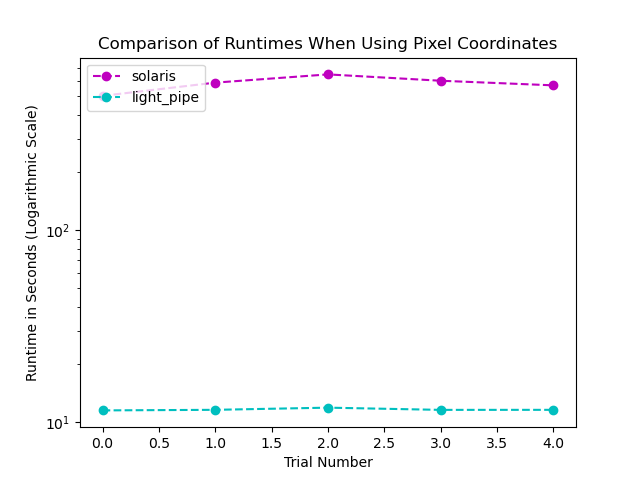
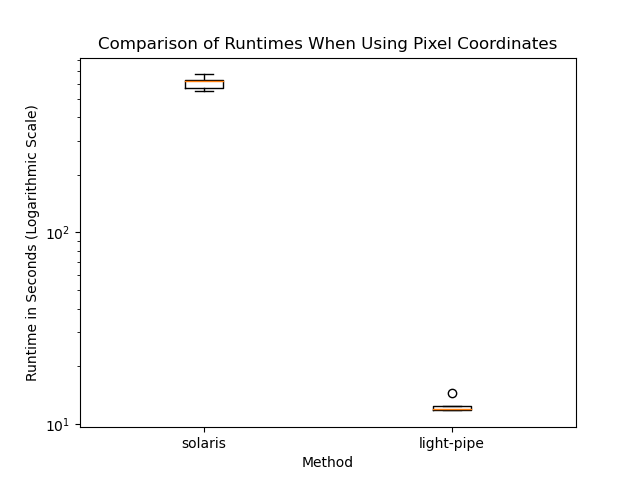
Rerun tests and update docs

diff --git a/docs/index.html b/docs/index.html
@@ -32,7 +32,7 @@
 <p>Raster files retrieved from data providers, such as satellite images, are generally too large to be input directly into deep-learning-based computer vision models. The <a href="https://arxiv.org/pdf/1512.03385.pdf">ResNet-50 model</a>, for example, requires inputs of size 224 by 224 (measured in pixels) whereas a typical <a href="https://www.usgs.gov/faqs/what-are-band-designations-landsat-satellites">Landsat 8-9 Operational Land Imagery (OLI) panchromatic image</a> is approximately 12200 by 11300 pixels. Therefore, to use a ResNet-50 model with a Landsat image, it is necessary to first pre-process the image. The most straightforward way to do this is to partition the image into image tiles (also known as "chips").</p>
 <p>This pre-processing step must be performed <em>every time</em> a satellite image is fed into a model, both while training the model and after it is deployed into production. So when you want to deploy a model to analyze a large number of satellite images, it is vital that your systems can tile images as quickly and efficiently as possible. This is especially true when the goal is to analyze sequences of imagery for each location.</p>
 <p>Here, we're concerned with two measures of efficiency: (a) the length of time it takes to process the data, and (b) the amount of storage space necessary to do so. Although Light-Pipe allows the user to save tiles (i.e. write to disk), this is generally undesirable when working with large quantities of data, since doing so may more than double the disk space required to conduct an analysis. For this reason, Light-Pipe can operate in-memory, which means that no extra storage space is required to process data, and you needn't write anything to disk when using it (unless you want to). Such transformations can be performed "on-the-fly", meaning that Light-Pipe transforms input data as it is needed, with no pre-processing step required. As we'll see below, Light-Pipe is so fast that users may prefer to prepare their data on-the-fly rather than in a batch pre-processing step, even during model training.</p>
-<p>To test Light-Pipe's performance on this task, let's compare it with existing tools. Although there are other tools for the task of raster tiling, two of the best and most popular are <a href="https://github.com/cogeotiff/rio-tiler"><code>rio-tiler</code></a> and <a href="https://github.com/CosmiQ/solaris"><code>solaris</code></a>. Both have (reasonably) large userbases and feature contributions from skilled developers. As mentioned previously, there are other tools that perform similar functions (such as <a href="https://github.com/azavea/raster-vision"><code>rastervision</code></a>), but they generally use a similar implementation to either <code>rio-tiler</code> or <code>solaris</code>. <code>rastervision</code>, for example, produces image tiles by essentially the same process as <code>solaris</code>.</p>
+<p>To test Light-Pipe's performance on this task, let's compare it with existing tools. Although there are other tools for the task of raster tiling, two of the best and most popular are <a href="https://github.com/cogeotiff/rio-tiler"><code>rio-tiler</code></a> and <a href="https://github.com/CosmiQ/solaris"><code>solaris</code></a>. Both have (reasonably) large userbases and feature contributions from skilled developers. As mentioned previously, there are other tools that perform similar functions, but they generally use a similar implementation to one of the two methods tested.</p>
 <p>For this test, we'll use the GeoTiff image found <a href="https://s3.amazonaws.com/spacenet-dataset/AOIs/AOI_1_Rio/PS-RGB/PS-RGB_mosaic_013022223133.tif">here</a> (CAUTION, clicking this link will automatically download the file). In the test scripts linked below, this is the file stored at <code>'./data/big_image.tif'</code>. </p>
 <p>We'll test two methods of tile generation. The first method simply involves reading sub-arrays from the input image of a specified width and height (in pixels). The second method requires extracting regions from the input image specified in geographic coordinates (e.g. degrees of latitude/longitude), not in pixel coordinates as in the first method. This method is more difficult, as the input image may not use the same coordinate reference system used to specify the coordinates for sub-sampling, and therefore the image may need to be reprojected into the target coordinate reference system first. Also, there are no guarantees in general that the specified coordinates for a region align with the locations of the pixels even after the input image has been reprojected into the same coordinate reference system. Although it is more computationally-expensive to tile according to geographic coordinates rather than pixel coordinates, tiling using geographic coordinates is necessary in general when making imagery sequences with rasters. This means that sequential models such as <a href="https://en.wikipedia.org/wiki/Long_short-term_memory">long short-term memory networks</a> require input tiles which have been subdivided using geographic coordinates, assuming the goal is to generate predictions corresponding to target locations. In short, there are very good reasons to use this approach for tiling since it allows the user to use new classes of models and perform analyses which they couldn't have done otherwise.</p>
 <h4 id="results">Results</h4>
@@ -47,7 +47,7 @@
 </blockquote>
 <p><a href="https://github.com/rcorrero/light-pipe/blob/master/tests/test_geo_tiling.py">This script</a> was used to obtain these results, and again I performed this test on my local machine.</p>
 <p>We see that Light-Pipe handily outperforms the alternatives on both tasks. This test is essentially a <em>worst-case</em> test for Light-Pipe, which is designed with concurrency tools which are most useful when processing large numbers of samples. Here we only process a single sample, giving the other two methods the best possible chance. When training a model, and especially when running a model in production, one may need to process thousands or even millions of images, which is where Light-Pipe's concurrency tools make it extremely attractive. </p>
-<p>If you look at the code closely, you'll see that <code>solaris</code> writes (reads) each tile to (from) disk, whereas <code>rio-tiler</code> generates its tiles without writing to disk. Although there are situations in which it is useful to store the tiles for future use, writing tiles to disk can eat up space, prohibitively so if one wants to analyze a large number of images. For example, the size on disk of the sub-regions extracted by <code>solaris</code> using geographic coordinates is approximately 510 MB on my machine, whereas the original image was only 93 MB. That means that image tiling would require over six times as much storage using <code>solaris</code> as would be required when using Light-Pipe. As mentioned previously, <code>rastervision</code> uses a similar process to <code>solaris</code> to generate tiles. Although <code>rio-tiler</code> does not need to write to disk to make tiles, we see that it is more than an order of magnitude slower than Light-Pipe.</p>
+<p>If you look at the code closely, you'll see that <code>solaris</code> writes (reads) each tile to (from) disk, whereas <code>rio-tiler</code> generates its tiles without writing to disk. Although there are situations in which it is useful to store the tiles for future use, writing tiles to disk can eat up space, prohibitively so if one wants to analyze a large number of images. For example, the size on disk of the sub-regions extracted by <code>solaris</code> using geographic coordinates is approximately 510 MB on my machine, whereas the original image was only 93 MB. That means that image tiling would require over six times as much storage using <code>solaris</code> as would be required when using Light-Pipe. Although <code>rio-tiler</code> does not need to write to disk to make tiles, we see that it is more than an order of magnitude slower than Light-Pipe.</p>
 <p>You shouldn't choose to use Light-Pipe solely because it's faster at these tasks, but it should definitely influence your decision-making. There are other reasons why you may want to use it: its clean API, its native concurrency support, its extensibility, its lack of dependencies (except for <code>osgeo</code>), and so on. Light-Pipe allows the user to do things which couldn't be done using any other package. So please give it a go, and if you have any suggestions, don't hesitate to <a href="mailto:rcorrero@stanford.edu">email</a> me or submit a <a href="https://github.com/rcorrero/light-pipe/pulls">pull request</a>.</p>
 <h2 id="python-api-guidelines">Python API Guidelines</h2>
 <p>The following is a list of guidelines which this package follows:</p>
@@ -139,7 +139,7 @@ This pre-processing step must be performed _every time_ a satellite image is fed
 
 Here, we&#39;re concerned with two measures of efficiency: (a) the length of time it takes to process the data, and (b) the amount of storage space necessary to do so. Although Light-Pipe allows the user to save tiles (i.e. write to disk), this is generally undesirable when working with large quantities of data, since doing so may more than double the disk space required to conduct an analysis. For this reason, Light-Pipe can operate in-memory, which means that no extra storage space is required to process data, and you needn&#39;t write anything to disk when using it (unless you want to). Such transformations can be performed &#34;on-the-fly&#34;, meaning that Light-Pipe transforms input data as it is needed, with no pre-processing step required. As we&#39;ll see below, Light-Pipe is so fast that users may prefer to prepare their data on-the-fly rather than in a batch pre-processing step, even during model training.
 
-To test Light-Pipe&#39;s performance on this task, let&#39;s compare it with existing tools. Although there are other tools for the task of raster tiling, two of the best and most popular are [`rio-tiler`](https://github.com/cogeotiff/rio-tiler) and [`solaris`](https://github.com/CosmiQ/solaris). Both have (reasonably) large userbases and feature contributions from skilled developers. As mentioned previously, there are other tools that perform similar functions (such as [`rastervision`](https://github.com/azavea/raster-vision)), but they generally use a similar implementation to either `rio-tiler` or `solaris`. `rastervision`, for example, produces image tiles by essentially the same process as `solaris`.
+To test Light-Pipe&#39;s performance on this task, let&#39;s compare it with existing tools. Although there are other tools for the task of raster tiling, two of the best and most popular are [`rio-tiler`](https://github.com/cogeotiff/rio-tiler) and [`solaris`](https://github.com/CosmiQ/solaris). Both have (reasonably) large userbases and feature contributions from skilled developers. As mentioned previously, there are other tools that perform similar functions, but they generally use a similar implementation to one of the two methods tested.
 
 For this test, we&#39;ll use the GeoTiff image found [here](https://s3.amazonaws.com/spacenet-dataset/AOIs/AOI_1_Rio/PS-RGB/PS-RGB_mosaic_013022223133.tif) (CAUTION, clicking this link will automatically download the file). In the test scripts linked below, this is the file stored at `&#39;./data/big_image.tif&#39;`. 
 
@@ -161,7 +161,7 @@ Next, I tested the performance of the three methods when extracting sub-regions 
 
 We see that Light-Pipe handily outperforms the alternatives on both tasks. This test is essentially a _worst-case_ test for Light-Pipe, which is designed with concurrency tools which are most useful when processing large numbers of samples. Here we only process a single sample, giving the other two methods the best possible chance. When training a model, and especially when running a model in production, one may need to process thousands or even millions of images, which is where Light-Pipe&#39;s concurrency tools make it extremely attractive. 
 
-If you look at the code closely, you&#39;ll see that `solaris` writes (reads) each tile to (from) disk, whereas `rio-tiler` generates its tiles without writing to disk. Although there are situations in which it is useful to store the tiles for future use, writing tiles to disk can eat up space, prohibitively so if one wants to analyze a large number of images. For example, the size on disk of the sub-regions extracted by `solaris` using geographic coordinates is approximately 510 MB on my machine, whereas the original image was only 93 MB. That means that image tiling would require over six times as much storage using `solaris` as would be required when using Light-Pipe. As mentioned previously, `rastervision` uses a similar process to `solaris` to generate tiles. Although `rio-tiler` does not need to write to disk to make tiles, we see that it is more than an order of magnitude slower than Light-Pipe.
+If you look at the code closely, you&#39;ll see that `solaris` writes (reads) each tile to (from) disk, whereas `rio-tiler` generates its tiles without writing to disk. Although there are situations in which it is useful to store the tiles for future use, writing tiles to disk can eat up space, prohibitively so if one wants to analyze a large number of images. For example, the size on disk of the sub-regions extracted by `solaris` using geographic coordinates is approximately 510 MB on my machine, whereas the original image was only 93 MB. That means that image tiling would require over six times as much storage using `solaris` as would be required when using Light-Pipe. Although `rio-tiler` does not need to write to disk to make tiles, we see that it is more than an order of magnitude slower than Light-Pipe.
 
 You shouldn&#39;t choose to use Light-Pipe solely because it&#39;s faster at these tasks, but it should definitely influence your decision-making. There are other reasons why you may want to use it: its clean API, its native concurrency support, its extensibility, its lack of dependencies (except for `osgeo`), and so on. Light-Pipe allows the user to do things which couldn&#39;t be done using any other package. So please give it a go, and if you have any suggestions, don&#39;t hesitate to [email](mailto:rcorrero@stanford.edu) me or submit a [pull request](https://github.com/rcorrero/light-pipe/pulls).
 

diff --git a/docs/processing/sample.html b/docs/processing/sample.html
@@ -262,9 +262,9 @@ class LightPipeSample:
             X = tile_array[band_map[False]]
             y = tile_array[band_map[True]]
 
-            if np.allclose(y, 0) and pos_only:
+            if pos_only and np.allclose(y, 0):
                 continue
-            if np.allclose(X, 0) and non_null_only:
+            if non_null_only and np.allclose(X, 0):
                 continue
 
             tile = LightPipeTile(X=X, y=y, band_map=band_map)
@@ -507,9 +507,9 @@ georeferenced files.</p></div>
             X = tile_array[band_map[False]]
             y = tile_array[band_map[True]]
 
-            if np.allclose(y, 0) and pos_only:
+            if pos_only and np.allclose(y, 0):
                 continue
-            if np.allclose(X, 0) and non_null_only:
+            if non_null_only and np.allclose(X, 0):
                 continue
 
             tile = LightPipeTile(X=X, y=y, band_map=band_map)
@@ -764,9 +764,9 @@ based on file extension of <code>savepath</code>.</p></div>
         X = tile_array[band_map[False]]
         y = tile_array[band_map[True]]
 
-        if np.allclose(y, 0) and pos_only:
+        if pos_only and np.allclose(y, 0):
             continue
-        if np.allclose(X, 0) and non_null_only:
+        if non_null_only and np.allclose(X, 0):
             continue
 
         tile = LightPipeTile(X=X, y=y, band_map=band_map)

diff --git a/light_pipe/__init__.py b/light_pipe/__init__.py
@@ -24,7 +24,7 @@ This pre-processing step must be performed _every time_ a satellite image is fed
 
 Here, we're concerned with two measures of efficiency: (a) the length of time it takes to process the data, and (b) the amount of storage space necessary to do so. Although Light-Pipe allows the user to save tiles (i.e. write to disk), this is generally undesirable when working with large quantities of data, since doing so may more than double the disk space required to conduct an analysis. For this reason, Light-Pipe can operate in-memory, which means that no extra storage space is required to process data, and you needn't write anything to disk when using it (unless you want to). Such transformations can be performed "on-the-fly", meaning that Light-Pipe transforms input data as it is needed, with no pre-processing step required. As we'll see below, Light-Pipe is so fast that users may prefer to prepare their data on-the-fly rather than in a batch pre-processing step, even during model training.
 
-To test Light-Pipe's performance on this task, let's compare it with existing tools. Although there are other tools for the task of raster tiling, two of the best and most popular are [`rio-tiler`](https://github.com/cogeotiff/rio-tiler) and [`solaris`](https://github.com/CosmiQ/solaris). Both have (reasonably) large userbases and feature contributions from skilled developers. As mentioned previously, there are other tools that perform similar functions (such as [`rastervision`](https://github.com/azavea/raster-vision)), but they generally use a similar implementation to either `rio-tiler` or `solaris`. `rastervision`, for example, produces image tiles by essentially the same process as `solaris`.
+To test Light-Pipe's performance on this task, let's compare it with existing tools. Although there are other tools for the task of raster tiling, two of the best and most popular are [`rio-tiler`](https://github.com/cogeotiff/rio-tiler) and [`solaris`](https://github.com/CosmiQ/solaris). Both have (reasonably) large userbases and feature contributions from skilled developers. As mentioned previously, there are other tools that perform similar functions, but they generally use a similar implementation to one of the two methods tested.
 
 For this test, we'll use the GeoTiff image found [here](https://s3.amazonaws.com/spacenet-dataset/AOIs/AOI_1_Rio/PS-RGB/PS-RGB_mosaic_013022223133.tif) (CAUTION, clicking this link will automatically download the file). In the test scripts linked below, this is the file stored at `'./data/big_image.tif'`. 
 
@@ -46,7 +46,7 @@ Next, I tested the performance of the three methods when extracting sub-regions 
 
 We see that Light-Pipe handily outperforms the alternatives on both tasks. This test is essentially a _worst-case_ test for Light-Pipe, which is designed with concurrency tools which are most useful when processing large numbers of samples. Here we only process a single sample, giving the other two methods the best possible chance. When training a model, and especially when running a model in production, one may need to process thousands or even millions of images, which is where Light-Pipe's concurrency tools make it extremely attractive. 
 
-If you look at the code closely, you'll see that `solaris` writes (reads) each tile to (from) disk, whereas `rio-tiler` generates its tiles without writing to disk. Although there are situations in which it is useful to store the tiles for future use, writing tiles to disk can eat up space, prohibitively so if one wants to analyze a large number of images. For example, the size on disk of the sub-regions extracted by `solaris` using geographic coordinates is approximately 510 MB on my machine, whereas the original image was only 93 MB. That means that image tiling would require over six times as much storage using `solaris` as would be required when using Light-Pipe. As mentioned previously, `rastervision` uses a similar process to `solaris` to generate tiles. Although `rio-tiler` does not need to write to disk to make tiles, we see that it is more than an order of magnitude slower than Light-Pipe.
+If you look at the code closely, you'll see that `solaris` writes (reads) each tile to (from) disk, whereas `rio-tiler` generates its tiles without writing to disk. Although there are situations in which it is useful to store the tiles for future use, writing tiles to disk can eat up space, prohibitively so if one wants to analyze a large number of images. For example, the size on disk of the sub-regions extracted by `solaris` using geographic coordinates is approximately 510 MB on my machine, whereas the original image was only 93 MB. That means that image tiling would require over six times as much storage using `solaris` as would be required when using Light-Pipe. Although `rio-tiler` does not need to write to disk to make tiles, we see that it is more than an order of magnitude slower than Light-Pipe.
 
 You shouldn't choose to use Light-Pipe solely because it's faster at these tasks, but it should definitely influence your decision-making. There are other reasons why you may want to use it: its clean API, its native concurrency support, its extensibility, its lack of dependencies (except for `osgeo`), and so on. Light-Pipe allows the user to do things which couldn't be done using any other package. So please give it a go, and if you have any suggestions, don't hesitate to [email](mailto:rcorrero@stanford.edu) me or submit a [pull request](https://github.com/rcorrero/light-pipe/pulls).
 

diff --git a/tests/test_geo_tiling.py b/tests/test_geo_tiling.py
@@ -1,9 +1,11 @@
+import json
 import os
 import random
 import shutil
 import time
 
 import matplotlib.pyplot as plt
+import numpy as np
 from light_pipe import concurrency, gridding, mercantile, pipeline, processing
 from osgeo import gdal, ogr
 from rio_tiler.io import COGReader
@@ -106,20 +108,17 @@ if __name__ == "__main__":
         remove(raster_dest_dir) # Delete images if they already exist
     num_trials = 5
     plt_savepath = "./data/plots/test_geo_tiling.png"
+    results_savepath = "./data/tests/test_results/test_geo_tiling.json"
 
     tests = [
         ("solaris", test_solaris),
-        ("rio_tiler", test_rio_tiler),
-        ("light_pipe", test_light_pipe)
+        ("rio-tiler", test_rio_tiler),
+        ("light-pipe", test_light_pipe)
     ]
 
-    colors = {
-        "solaris": "m",
-        "rio_tiler": "y",
-        "light_pipe": "c" 
-    }
+    test_names = [tup[0] for tup in tests]
 
-    res = {tup[0]: list() for tup in tests}
+    res = {test_name: list() for test_name in test_names}
     num_tests = len(tests)
     ids = list(range(num_tests))
 
@@ -130,14 +129,18 @@ if __name__ == "__main__":
             run_time = test()
             res[test_name].append(run_time)
 
+    with open(results_savepath, 'w') as f:
+        json.dump(res, f, sort_keys=True, indent=4)
+
+    res_arr = np.array([res[test_name] for test_name in test_names]).T
+
     x = list(range(num_trials))
-    plt.xlabel("Trial Number")
+    plt.xlabel("Method")
     plt.ylabel("Runtime in Seconds (Logarithmic Scale)")
     plt.title(f"Comparison of Runtimes When Using Geographic Coordinates")
-    for key, val in res.items():
-        plt.plot(x, val, linestyle='--', marker='o', label=key, color=colors[key])
+    plt.boxplot(res_arr, labels=test_names)
     plt.yscale('log', base=10) 
-    plt.legend(loc="upper left")
+    # plt.legend(loc="upper left")
     plt.savefig(plt_savepath)
 
     if os.path.exists(raster_dest_dir):

diff --git a/tests/test_pixel_tiling.py b/tests/test_pixel_tiling.py
@@ -1,3 +1,4 @@
+import json
 import os
 import random
 import shutil
@@ -61,15 +62,18 @@ if __name__ == "__main__":
         remove(raster_dest_dir) # Delete images if they already exist
     num_trials = 5
     plt_savepath = "./data/plots/test_pixel_tiling.png"
+    results_savepath = "./data/tests/test_results/test_pixel_tiling.json"
 
     tests = [
         ("solaris", test_solaris),
-        ("light_pipe", test_light_pipe)
+        ("light-pipe", test_light_pipe)
     ]
+
+    test_names = [tup[0] for tup in tests]
 
     colors = {
         "solaris": "m",
-        "light_pipe": "c" 
+        "light-pipe": "c" 
     }    
 
     res = {tup[0]: list() for tup in tests}
@@ -83,14 +87,18 @@ if __name__ == "__main__":
             run_time = test()
             res[test_name].append(run_time)
 
+    with open(results_savepath, 'w') as f:
+        json.dump(res, f, sort_keys=True, indent=4)
+
+    res_arr = np.array([res[test_name] for test_name in test_names]).T        
+
     x = list(range(num_trials))
-    plt.xlabel("Trial Number")
+    plt.xlabel("Method")
     plt.ylabel("Runtime in Seconds (Logarithmic Scale)")
     plt.title(f"Comparison of Runtimes When Using Pixel Coordinates")
-    for key, val in res.items():
-        plt.plot(x, val, linestyle='--', marker='o', label=key, color=colors[key])
+    plt.boxplot(res_arr, labels=test_names)
     plt.yscale('log', base=10)         
-    plt.legend(loc="upper left")
+    # plt.legend(loc="upper left")
     plt.savefig(plt_savepath)
 
     if os.path.exists(raster_dest_dir):

diff --git a/light_pipe/processing/sample.py b/light_pipe/processing/sample.py
@@ -230,9 +230,9 @@ class LightPipeSample:
             X = tile_array[band_map[False]]
             y = tile_array[band_map[True]]
 
-            if np.allclose(y, 0) and pos_only:
+            if pos_only and np.allclose(y, 0):
                 continue
-            if np.allclose(X, 0) and non_null_only:
+            if non_null_only and np.allclose(X, 0):
                 continue
 
             tile = LightPipeTile(X=X, y=y, band_map=band_map)

diff --git a/README.md b/README.md
@@ -18,7 +18,7 @@ This pre-processing step must be performed _every time_ a satellite image is fed
 
 Here, we're concerned with two measures of efficiency: (a) the length of time it takes to process the data, and (b) the amount of storage space necessary to do so. Although Light-Pipe allows the user to save tiles (i.e. write to disk), this is generally undesirable when working with large quantities of data, since doing so may more than double the disk space required to conduct an analysis. For this reason, Light-Pipe can operate in-memory, which means that no extra storage space is required to process data, and you needn't write anything to disk when using it (unless you want to). Such transformations can be performed "on-the-fly", meaning that Light-Pipe transforms input data as it is needed, with no pre-processing step required. As we'll see below, Light-Pipe is so fast that users may prefer to prepare their data on-the-fly rather than in a batch pre-processing step, even during model training.
 
-To test Light-Pipe's performance on this task, let's compare it with existing tools. Although there are other tools for the task of raster tiling, two of the best and most popular are [`rio-tiler`](https://github.com/cogeotiff/rio-tiler) and [`solaris`](https://github.com/CosmiQ/solaris). Both have (reasonably) large userbases and feature contributions from skilled developers. As mentioned previously, there are other tools that perform similar functions (such as [`rastervision`](https://github.com/azavea/raster-vision)), but they generally use a similar implementation to either `rio-tiler` or `solaris`. `rastervision`, for example, produces image tiles by essentially the same process as `solaris`.
+To test Light-Pipe's performance on this task, let's compare it with existing tools. Although there are other tools for the task of raster tiling, two of the best and most popular are [`rio-tiler`](https://github.com/cogeotiff/rio-tiler) and [`solaris`](https://github.com/CosmiQ/solaris). Both have (reasonably) large userbases and feature contributions from skilled developers. As mentioned previously, there are other tools that perform similar functions, but they generally use a similar implementation to one of the two methods tested.
 
 For this test, we'll use the GeoTiff image found [here](https://s3.amazonaws.com/spacenet-dataset/AOIs/AOI_1_Rio/PS-RGB/PS-RGB_mosaic_013022223133.tif) (CAUTION, clicking this link will automatically download the file). In the test scripts linked below, this is the file stored at `'./data/big_image.tif'`. 
 
@@ -40,7 +40,7 @@ Next, I tested the performance of the three methods when extracting sub-regions 
 
 We see that Light-Pipe handily outperforms the alternatives on both tasks. This test is essentially a _worst-case_ test for Light-Pipe, which is designed with concurrency tools which are most useful when processing large numbers of samples. Here we only process a single sample, giving the other two methods the best possible chance. When training a model, and especially when running a model in production, one may need to process thousands or even millions of images, which is where Light-Pipe's concurrency tools make it extremely attractive. 
 
-If you look at the code closely, you'll see that `solaris` writes (reads) each tile to (from) disk, whereas `rio-tiler` generates its tiles without writing to disk. Although there are situations in which it is useful to store the tiles for future use, writing tiles to disk can eat up space, prohibitively so if one wants to analyze a large number of images. For example, the size on disk of the sub-regions extracted by `solaris` using geographic coordinates is approximately 510 MB on my machine, whereas the original image was only 93 MB. That means that image tiling would require over six times as much storage using `solaris` as would be required when using Light-Pipe. As mentioned previously, `rastervision` uses a similar process to `solaris` to generate tiles. Although `rio-tiler` does not need to write to disk to make tiles, we see that it is more than an order of magnitude slower than Light-Pipe.
+If you look at the code closely, you'll see that `solaris` writes (reads) each tile to (from) disk, whereas `rio-tiler` generates its tiles without writing to disk. Although there are situations in which it is useful to store the tiles for future use, writing tiles to disk can eat up space, prohibitively so if one wants to analyze a large number of images. For example, the size on disk of the sub-regions extracted by `solaris` using geographic coordinates is approximately 510 MB on my machine, whereas the original image was only 93 MB. That means that image tiling would require over six times as much storage using `solaris` as would be required when using Light-Pipe. Although `rio-tiler` does not need to write to disk to make tiles, we see that it is more than an order of magnitude slower than Light-Pipe.
 
 You shouldn't choose to use Light-Pipe solely because it's faster at these tasks, but it should definitely influence your decision-making. There are other reasons why you may want to use it: its clean API, its native concurrency support, its extensibility, its lack of dependencies (except for `osgeo`), and so on. Light-Pipe allows the user to do things which couldn't be done using any other package. So please give it a go, and if you have any suggestions, don't hesitate to [email](mailto:rcorrero@stanford.edu) me or submit a [pull request](https://github.com/rcorrero/light-pipe/pulls).
 
